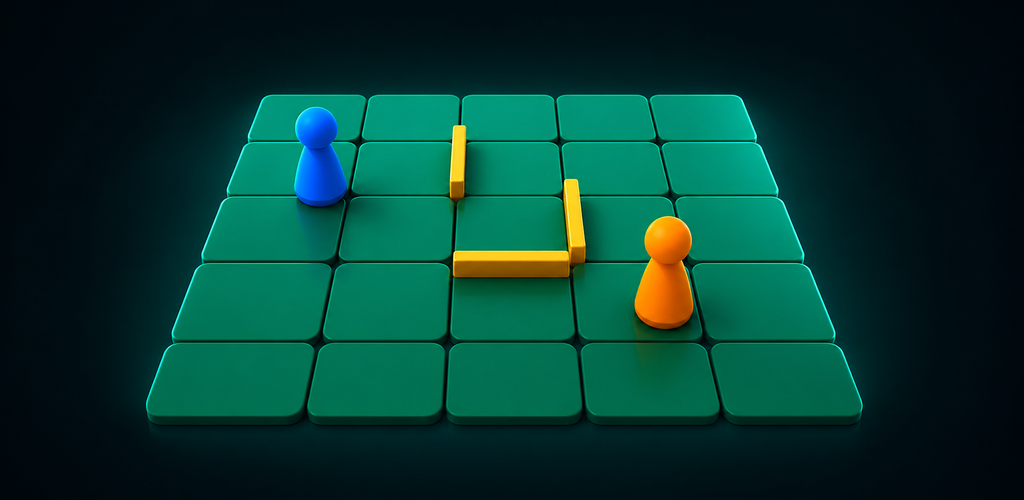
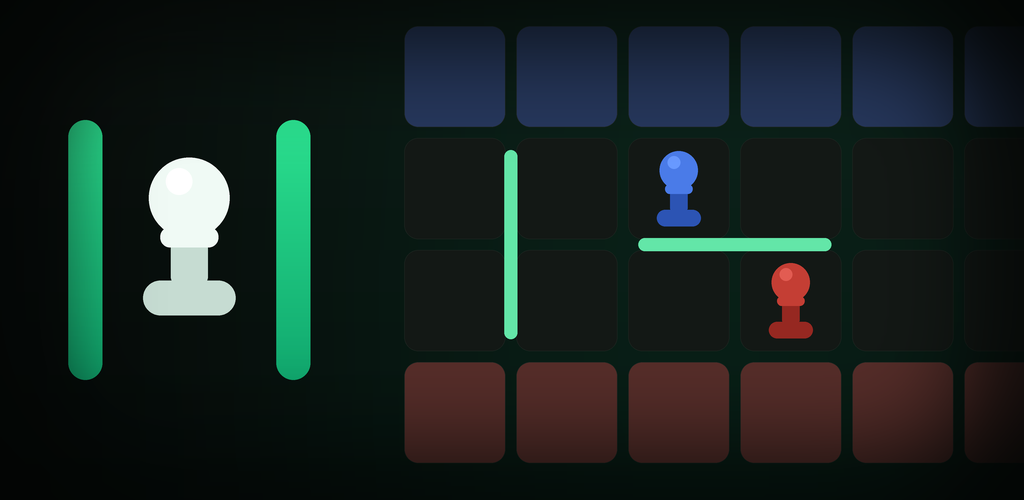
feat(store): draw the feature graphic instead of generating it
The file in the repository was made before the near-black palette landed: green
tiles, an orange pawn, gold walls. The shipped board is near-black with blue and
red pawns and mint walls, so the graphic advertised an app the player would not
recognise on opening it — and it was the one asset a listing shows at full width.

It is now drawn with Pillow from the same colour literals the screenshots show,
which is why the script is committed beside the PNG: when the board palette moves
again, the graphic is one command behind it rather than a prompt to re-roll and a
crop to redo. Supersampled 4x and downsampled, so the rounded tiles and the pawn
silhouettes hold their edges at 1024x500.

diff --git a/docs/store/feature-graphic.py b/docs/store/feature-graphic.py
@@ -1,0 +1,151 @@
+"""Regenerate the Play feature graphic from the palette the app actually ships.
+
+The old file was drawn against the pre-launch palette: bright green tiles, an orange
+pawn, gold walls. The shipped board is near-black with blue and red pawns and mint
+walls, so the old graphic advertises an app the player will not recognise. Everything
+here is drawn from the same colours the screenshots show.
+"""
+import os
+from PIL import Image, ImageDraw, ImageFilter
+
+S = 4  # supersample, downscaled at the end
+W, H = 1024 * S, 500 * S
+
+BG_TOP = (10, 14, 12)
+BG_BOT = (4, 7, 6)
+GLOW = (18, 120, 84)
+
+TILE = (19, 24, 21)
+TILE_EDGE = (30, 38, 33)
+GOAL_BLUE = (38, 55, 92)
+GOAL_RED = (86, 45, 41)
+PAWN_BLUE = (74, 123, 232)
+PAWN_BLUE_D = (44, 84, 180)
+PAWN_RED = (196, 62, 52)
+PAWN_RED_D = (150, 40, 33)
+WALL = (99, 230, 168)
+
+ICON_G1 = (43, 224, 143)
+ICON_G2 = (16, 168, 110)
+PAWN_W = (240, 250, 245)
+PAWN_W_D = (198, 220, 210)
+
+
+def vertical_gradient(size, top, bottom):
+    w, h = size
+    base = Image.new("RGB", (1, h))
+    px = base.load()
+    for y in range(h):
+        t = y / max(1, h - 1)
+        px[0, y] = tuple(round(top[i] + (bottom[i] - top[i]) * t) for i in range(3))
+    return base.resize((w, h), Image.BILINEAR)
+
+
+def radial_glow(size, centre, radius, colour, strength=1.0):
+    """A soft emerald bloom, painted as a blurred disc so it has no visible edge."""
+    layer = Image.new("L", size, 0)
+    d = ImageDraw.Draw(layer)
+    cx, cy = centre
+    d.ellipse((cx - radius, cy - radius, cx + radius, cy + radius),
+              fill=round(255 * strength))
+    layer = layer.filter(ImageFilter.GaussianBlur(radius * 0.55))
+    tint = Image.new("RGB", size, colour)
+    return tint, layer
+
+
+def pawn(draw, cx, cy, r, light, dark):
+    """The board pawn: head, neck, collar, base — the silhouette the app draws.
+
+    cy is the centre of the head; everything else hangs below it, so callers can
+    place the piece by its head the way the eye reads it.
+    """
+    base_w, base_h = r * 2.3, r * 0.86
+    base_top = cy + r * 2.05
+    draw.rounded_rectangle((cx - base_w / 2, base_top, cx + base_w / 2, base_top + base_h),
+                           radius=base_h / 2, fill=dark)
+    draw.rounded_rectangle((cx - r * 0.46, cy + r * 1.0, cx + r * 0.46, base_top + r * 0.12),
+                           radius=r * 0.22, fill=dark)
+    draw.rounded_rectangle((cx - r * 0.72, cy + r * 0.72, cx + r * 0.72, cy + r * 1.22),
+                           radius=r * 0.24, fill=light)
+    draw.ellipse((cx - r, cy - r, cx + r, cy + r), fill=light)
+    draw.ellipse((cx - r * 0.58, cy - r * 0.74, cx + r * 0.08, cy - r * 0.08),
+                 fill=tuple(min(255, c + 30) for c in light))
+
+
+canvas = vertical_gradient((W, H), BG_TOP, BG_BOT)
+tint, mask = radial_glow((W, H), (int(W * 0.66), int(H * 0.52)), int(H * 0.72), GLOW, 0.5)
+canvas = Image.composite(Image.blend(canvas, tint, 0.42), canvas, mask)
+
+board = Image.new("RGBA", (W, H), (0, 0, 0, 0))
+d = ImageDraw.Draw(board)
+
+# A close-up of the board rather than the whole 9x9: at this aspect ratio a full board
+# would sit as a small square in the middle with dead space either side.
+pitch = 112 * S
+gap = 11 * S
+side = pitch - gap
+cols, rows = 6, 4
+x0 = int(W * 0.395)
+y0 = int(H * 0.5 - rows * pitch / 2)
+
+for row in range(rows):
+    for col in range(cols):
+        x = x0 + col * pitch
+        y = y0 + row * pitch
+        if x >= W:
+            continue
+        fill = TILE
+        if row == 0:
+            fill = GOAL_BLUE
+        elif row == rows - 1:
+            fill = GOAL_RED
+        d.rounded_rectangle((x, y, x + side, y + side), radius=14 * S,
+                            fill=fill, outline=TILE_EDGE, width=max(1, S // 2))
+
+# Two mint walls, drawn on the tile seams exactly as the game places them.
+wall_t = 13 * S
+d.rounded_rectangle((x0 + pitch * 1 - gap // 2 - wall_t // 2, y0 + pitch * 1 + side * 0.12,
+                     x0 + pitch * 1 - gap // 2 + wall_t // 2, y0 + pitch * 3 - gap - side * 0.12),
+                    radius=wall_t // 2, fill=WALL)
+d.rounded_rectangle((x0 + pitch * 2 + side * 0.10, y0 + pitch * 2 - gap // 2 - wall_t // 2,
+                     x0 + pitch * 4 - gap - side * 0.10, y0 + pitch * 2 - gap // 2 + wall_t // 2),
+                    radius=wall_t // 2, fill=WALL)
+
+pawn(d, x0 + pitch * 2 + side / 2, y0 + pitch * 1 + side * 0.32, side * 0.19,
+     PAWN_BLUE, PAWN_BLUE_D)
+pawn(d, x0 + pitch * 3 + side / 2, y0 + pitch * 2 + side * 0.32, side * 0.19,
+     PAWN_RED, PAWN_RED_D)
+
+canvas = Image.alpha_composite(canvas.convert("RGBA"), board)
+
+# The icon motif on the left: the two walls and the pawn between them, so the graphic
+# and the launcher icon read as the same product.
+mark = Image.new("RGBA", (W, H), (0, 0, 0, 0))
+m = ImageDraw.Draw(mark)
+mx, my = int(W * 0.185), int(H * 0.50)
+bar_h = int(H * 0.52)
+bar_w = int(bar_h * 0.132)
+bar_dx = int(bar_h * 0.40)
+
+bar_grad = vertical_gradient((bar_w, bar_h), ICON_G1, ICON_G2)
+for sign in (-1, 1):
+    shape = Image.new("L", (bar_w, bar_h), 0)
+    ImageDraw.Draw(shape).rounded_rectangle((0, 0, bar_w - 1, bar_h - 1),
+                                            radius=bar_w // 2, fill=255)
+    canvas.paste(bar_grad, (mx + sign * bar_dx - bar_w // 2, my - bar_h // 2), shape)
+
+pawn(m, mx, my - bar_h * 0.20, bar_h * 0.155, PAWN_W, PAWN_W_D)
+canvas = Image.alpha_composite(canvas, mark)
+
+# Vignette, so nothing important reads as sitting on the frame edge.
+vig = Image.new("L", (W, H), 0)
+ImageDraw.Draw(vig).rounded_rectangle((int(W * 0.04), int(H * 0.07),
+                                       int(W * 0.96), int(H * 0.93)),
+                                      radius=int(H * 0.2), fill=255)
+vig = vig.filter(ImageFilter.GaussianBlur(int(H * 0.10)))
+canvas = Image.composite(canvas, Image.new("RGBA", (W, H), (3, 5, 4, 255)), vig)
+
+out = canvas.convert("RGB").resize((1024, 500), Image.LANCZOS)
+dst = os.path.join(os.path.dirname(os.path.abspath(__file__)), "feature-graphic-1024x500.png")
+out.save(dst, "PNG", optimize=True)
+print(dst, out.size, round(os.path.getsize(dst) / 1024, 1), "KB")

diff --git a/docs/store/ASSET_NOTES.md b/docs/store/ASSET_NOTES.md
@@ -10,13 +10,13 @@ Files, and which of them are safe to upload:
 - `screenshots/phone-02-gameplay-tr.png` — a match against the Expert bot, two walls down (1080×2160)
 - `screenshots/phone-03-difficulty-tr.png` — the four bots and the colour choice (1080×2160)
 - `screenshots/phone-04-play-modes-tr.png` — the three ways to play (1080×2160)
-- `feature-graphic-1024x500.png` — **stale.** Generated from the earlier raster emblem, before the near-black palette. It is the one asset here that still shows an app the player will not recognise. Play requires a feature graphic only for some placements; regenerate it before it is used anywhere prominent.
+- `feature-graphic-1024x500.png` — the listing's feature graphic, redrawn on 2026-08-08 from the palette the app actually ships: near-black board, blue and red pawns, mint walls, and the icon's own motif on the left. It replaces a version generated before the near-black palette, which showed green tiles, an orange pawn and gold walls — an app the player would not have recognised.
 
 The four screenshots were taken on 2026-08-08 from the shipped release build on a Galaxy S24 at 1080×2340, cropped to remove the navigation bar. No interface element was generated or retouched — this is the app as it runs. The two earlier raster icons that used to sit in this folder are deleted rather than kept beside the current one, because the hazard was never that they were wrong, it was that they were named plausibly.
 
-The feature graphic was generated with the built-in image generation mode, using the project icon as the visual reference, and then center-cropped to the exact Google Play size of 1024×500 pixels.
+The feature graphic is drawn, not generated: `feature-graphic.py` renders it with Pillow at 4× and downsamples, so every colour in it is a literal from the same palette the screenshots show rather than an approximation of one. Re-run that script if the board or pawn colours change; there is no prompt to re-roll and no chance of the file drifting away from the app again.
 
-Feature graphic prompt:
-
-> Create a polished 1024×500 landscape Google Play feature graphic for the Android strategy board game Koridor. Use the attached official app icon as the visual identity reference: deep charcoal-teal background, emerald rounded board tiles, one glossy cool-blue pawn, one glossy warm-orange pawn, and golden corridor walls. Show a cinematic three-quarter view of an abstract board with the two pawns facing across a strategic maze of gold walls. Premium modern 3D game art, dramatic rim lighting, clean negative space, high contrast, sharp silhouettes, balanced composition, no text, no letters, no logo, no watermark, no device mockup, no border, no unrelated objects.
+```bash
+python docs/store/feature-graphic.py
+```
 
